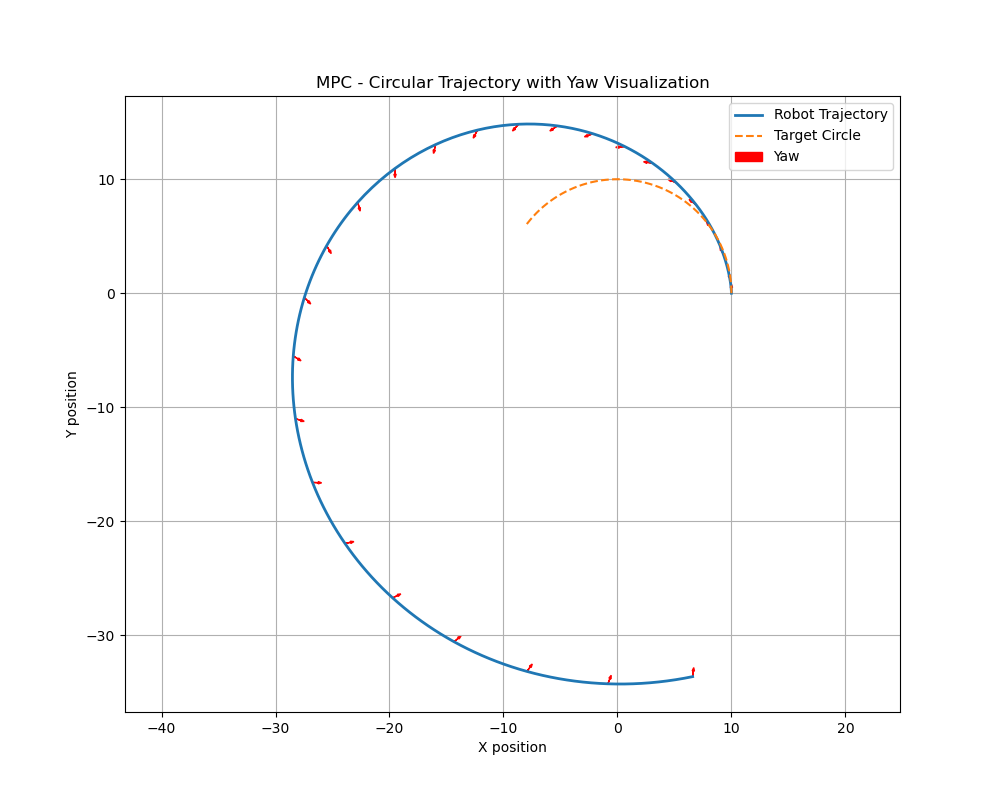
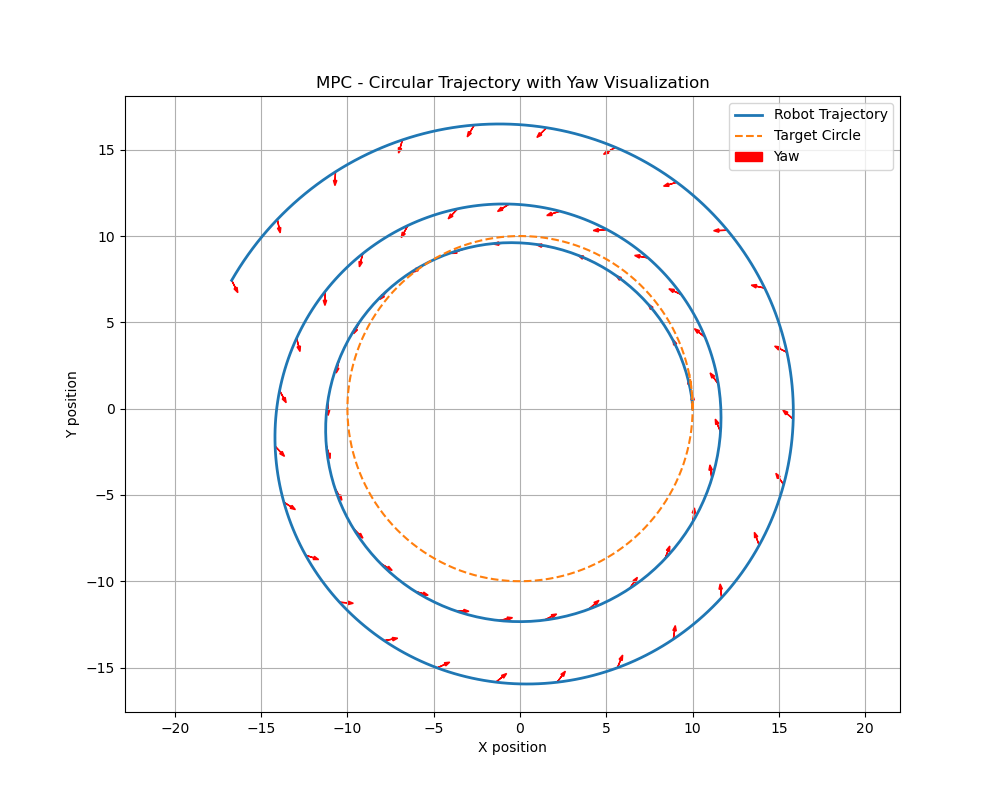
create node for nmpc controller

diff --git a/nmpc_controller/scripts/nmpc_controller.py b/nmpc_controller/scripts/nmpc_controller.py
@@ -1,0 +1,225 @@
+#!/usr/bin/python3
+
+import numpy as np
+import rclpy
+from rclpy.node import Node
+from geometry_msgs.msg import Pose, Twist
+from nav_msgs.msg import Odometry
+from scipy.optimize import minimize
+
+# Constants
+m = 2.35  # Mass of the vehicle (kg)
+Iz = 0.045  # Moment of inertia around z-axis (kg*m^2)
+Lf = 0.11372  # Distance from the center of gravity to the front axle (m)
+Lr = 0.14328  # Distance from the center of gravity to the rear axle (m)
+Bf, Cf, Df = 2.0, 1.2, -1.0
+Br, Cr, Dr = 2.0, 1.2, -1.0
+
+# Blending speed thresholds
+v_blend_min = 0.1
+v_blend_max = 2.5
+
+# Define parameters
+dt = 0.1  # time step
+
+circle_radius = 10.0  # Radius of the circle
+circle_center = np.array([0, 0])  # Center of the circle
+
+class DriftController(Node):
+    def __init__(self):
+        super().__init__('drift_controller')
+        
+        # Subscribe to vehicle pose
+        self.pose_subscription = self.create_subscription(
+            Odometry,
+            '/vehicle/pose',  # Update with the correct topic name
+            self.pose_callback,
+            10)
+        
+        # Publisher for control commands
+        self.control_publisher = self.create_publisher(
+            Twist,
+            '/vehicle/cmd_vel',  # Update with the correct topic name
+            10)
+        
+        # Initial state
+        self.state = np.array([10.0, 0, np.pi/2, 0, 0, 0, 0])
+        self.controls = []
+        self.time = [0]
+        self.targets = []
+
+    def pose_callback(self, msg):
+        # Extract pose information from the message
+        x = msg.pose.pose.position.x
+        y = msg.pose.pose.position.y
+        yaw = self.quaternion_to_yaw(msg.pose.pose.orientation)
+        vx = msg.twist.twist.linear.x
+        vy = msg.twist.twist.linear.y
+        r = msg.twist.twist.angular.z
+        
+        # Update state
+        self.state = np.array([x, y, yaw, vx, vy, r, 0])
+        
+        # Run MPC
+        self.run_mpc()
+
+    def quaternion_to_yaw(self, orientation):
+        # Convert quaternion to yaw angle
+        x = orientation.x
+        y = orientation.y
+        z = orientation.z
+        w = orientation.w
+        yaw = np.arctan2(2.0 * (w * z + x * y), 1.0 - 2.0 * (y**2 + z**2))
+        return yaw
+
+    def run_mpc(self):
+        N = 10  # Prediction horizon
+        U0 = [0.0, 0.0] * N  # Initial guess for controls
+        bounds = [(-5.0, 5.0), (-0.698, 0.698)] * N  # Constraints for controls
+
+        # Get current target on the circle
+        t = len(self.time)
+        target = self.circle_target(t * dt, circle_radius, circle_center)
+        self.targets.append(target)
+
+        result = minimize(
+            self.mpc_cost, U0, args=(N, self.state, target),
+            bounds=bounds, method='SLSQP'
+        )
+        if not result.success:
+            self.get_logger().error("Optimization failed!")
+            return
+
+        # Apply the first control input
+        U_opt = result.x
+        control = U_opt[:2]
+        self.state = self.drift_model(self.state, control, dt)
+        self.controls.append(control)
+        self.time.append((t + 1) * dt)
+
+        # Publish control command
+        self.publish_control(control)
+
+    def publish_control(self, control):
+        # Create Twist message
+        twist_msg = Twist()
+        twist_msg.linear.x = control[0]
+        twist_msg.angular.z = control[1]
+        
+        # Publish the message
+        self.control_publisher.publish(twist_msg)
+
+    def circle_target(self, t, radius, center):
+        angle = t * 0.1  # Angular velocity (radians per second)
+        x = center[0] + radius * np.cos(angle)
+        y = center[1] + radius * np.sin(angle)
+
+        dx = -radius * np.sin(angle)
+        dy = radius * np.cos(angle)
+        yaw = np.arctan2(dy, dx)
+
+        return np.array([x, y, yaw])
+
+    def circle_velocity_target(self, radius, v):
+        angular_velocity = v / radius 
+        vx_goal = v
+        r_goal = angular_velocity
+        return vx_goal, r_goal
+
+    def calculate_lambda(self, vx, vy):
+        phi = v_blend_min + 0.5 * (v_blend_max - v_blend_min)
+        w = (2 * np.pi) / (v_blend_max - v_blend_min)
+        lambda_val = 0.5 * (np.tanh(w * ((vx**2 + vy**2)**0.5 - phi)) + 1)
+        return lambda_val
+
+    def calculate_slip_angles(self, vx, vy, r, delta):
+        epsilon = 1e-5
+        vx_safe = max(vx, epsilon)
+        alpha_f = -np.arctan((Lf * r + vy) / vx_safe) + delta
+        alpha_r = np.arctan((Lr * r - vy) / vx_safe)
+        if vx < epsilon:
+            alpha_f = alpha_r = 0
+        return alpha_f, alpha_r
+
+    def calculate_tire_forces(self, alpha_f, alpha_r):
+        Fyf = Df * np.sin(Cf * np.arctan(Bf * alpha_f))
+        Fyr = Dr * np.sin(Cr * np.arctan(Br * alpha_r))
+        return Fyf, Fyr
+
+    def drift_model(self, state, control, dt):
+        x, y, yaw, vx, vy, r, delta = state
+        Fx, Delta_delta = control
+
+        lam = self.calculate_lambda(vx, vy)
+        alpha_f, alpha_r = self.calculate_slip_angles(vx, vy, r, delta)
+        Fyf, Fyr = self.calculate_tire_forces(alpha_f, alpha_r)
+
+        B = 0.1
+        x_dot_dyn = vx * np.cos(yaw) - vy * np.sin(yaw)
+        y_dot_dyn = vx * np.sin(yaw) + vy * np.cos(yaw)
+        yaw_dot_dyn = r
+        vx_dot_dyn = (1 / m) * (-B*vx + Fx - Fyf * np.sin(delta) + m * vy * r)
+        vy_dot_dyn = (1 / m) * (-B*vy + Fyr + Fyf * np.cos(delta) - m * vx * r)
+        r_dot_dyn = (1 / Iz) * (-B*r + Fyf * Lf * np.cos(delta) - Fyr * Lr)
+        delta_dot_dyn = Delta_delta
+
+        x_dot_kin = vx * np.cos(yaw) - vy * np.sin(yaw)
+        y_dot_kin = vx * np.sin(yaw) + vy * np.cos(yaw)
+        yaw_dot_kin = r
+        vx_dot_kin = (-B*vx + Fx) / m
+        vy_dot_kin = (Delta_delta * vx) * (Lr / (Lr + Lf))
+        r_dot_kin = (Delta_delta * vx) * (1 / (Lr + Lf))
+        delta_dot_kin = Delta_delta
+
+        lam = 0.05
+        x_dot = lam * x_dot_dyn + (1 - lam) * x_dot_kin
+        y_dot = lam * y_dot_dyn + (1 - lam) * y_dot_kin
+        yaw_dot = lam * yaw_dot_dyn + (1 - lam) * yaw_dot_kin
+        vx_dot = lam * vx_dot_dyn + (1 - lam) * vx_dot_kin
+        vy_dot = lam * vy_dot_dyn + (1 - lam) * vy_dot_kin
+        r_dot = lam * r_dot_dyn + (1 - lam) * r_dot_kin
+        delta_dot = lam * delta_dot_dyn + (1 - lam) * delta_dot_kin
+
+        x += x_dot * dt
+        y += y_dot * dt
+        yaw += yaw_dot * dt  
+        vx += vx_dot * dt
+        vy += vy_dot * dt
+        r += r_dot * dt
+        delta += delta_dot * dt
+
+        return np.array([x, y, yaw, vx, vy, r, delta])
+
+    def mpc_cost(self, U, *args):
+        N, state, target = args
+        cost = 0.0
+
+        vx_goal, r_goal = self.circle_velocity_target(circle_radius, 2.5)
+
+        alpha_vx = 1.0
+        alpha_r = 1.0
+
+        for i in range(N):
+            state = self.drift_model(state, U[2 * i:2 * i + 2], dt)
+            x, y, yaw, vx, vy, r, delta = state
+
+            w_ss = alpha_vx*(vx - vx_goal)**2 + alpha_r*(r - r_goal)**2
+            cost += w_ss
+
+        x_target, y_target, yaw_target = target
+        position_error = (x - x_target)**2 + (y - y_target)**2
+        diff_yaw = yaw - yaw_target
+        heading_error = (np.arctan2(np.sin(diff_yaw), np.cos(diff_yaw)))**2
+
+        J_park = position_error + heading_error + (vx**2) + (vy**2) + (r**2)
+        return cost
+
+def main(args=None):
+    rclpy.init(args=args)
+    drift_controller = DriftController()
+    rclpy.spin(drift_controller)
+    drift_controller.destroy_node()
+    rclpy.shutdown()
+
+if __name__ == '__main__':
+    main()
